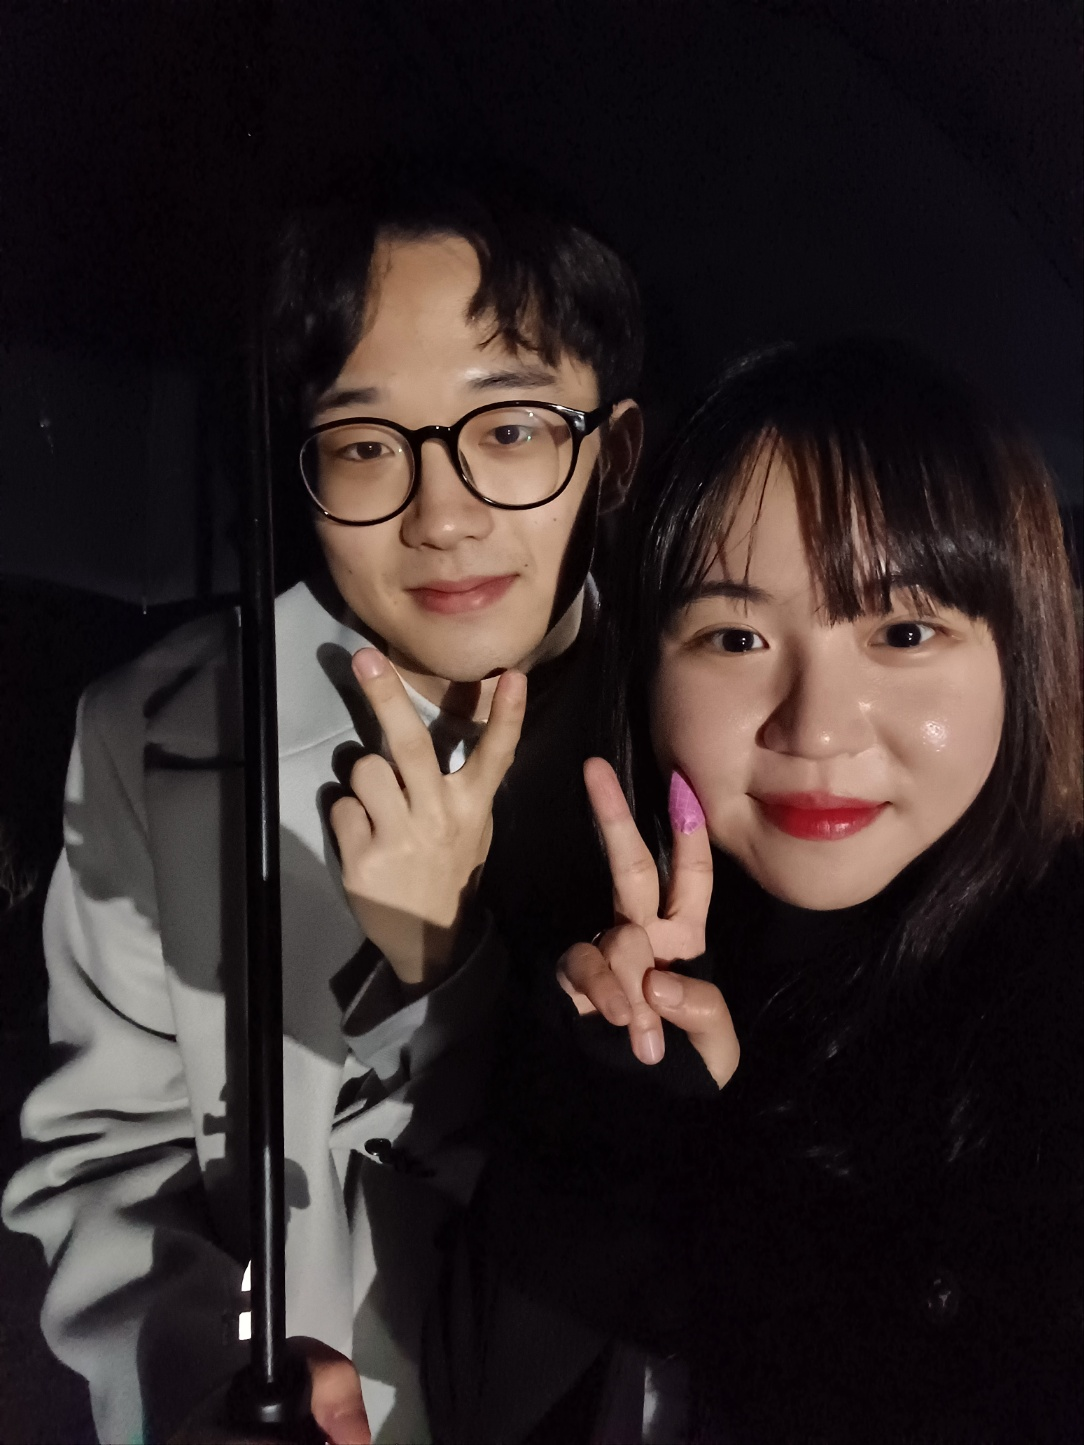
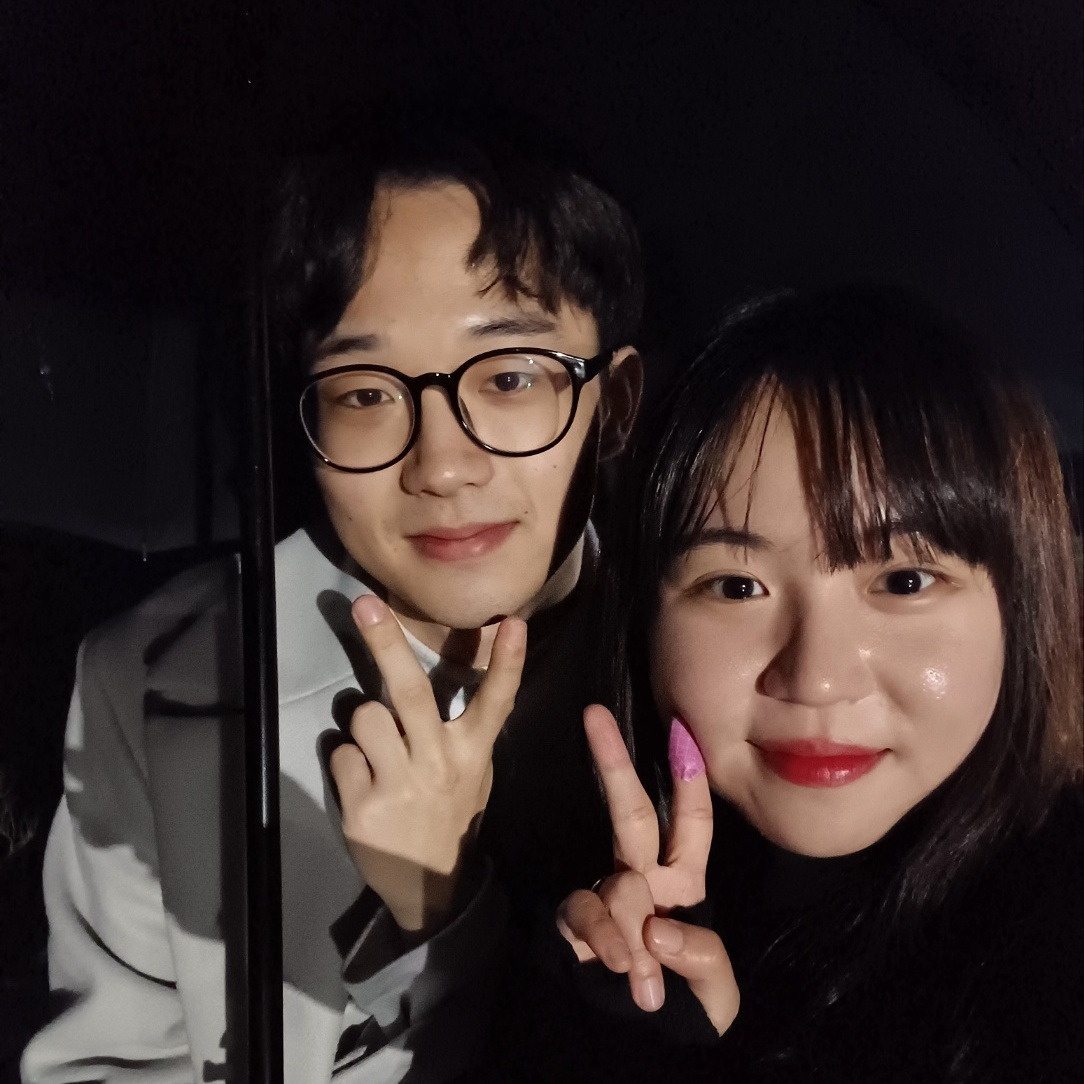
feat: profile 구현, About 페이지 구현

diff --git a/src/app/about/page.tsx b/src/app/about/page.tsx
@@ -1,3 +1,25 @@
+import Profile from "@/components/Profile";
+
 export default function AboutPage() {
-  return <h1>About!</h1>;
+  return (
+    <div>
+      <Profile />
+      <div className=" bg-neutral-900 h-64 p-6 flex flex-col justify-between items-center mt-6">
+        <div className="flex flex-col items-center">
+          <h2 className="font-semibold text-md mb-1">Who are we?</h2>
+          <p className="text-sm">꿈을 향해 코딩하는 개발자</p>
+          <p className="text-sm">취미는 알고리즘 문제 풀기</p>
+        </div>
+        <div className="flex flex-col items-center">
+          <h2 className="font-semibold text-md mb-1">Career</h2>
+          <p className="text-sm">인천대학교 졸업</p>
+        </div>
+        <div className="flex flex-col items-center">
+          <h2 className="font-semibold text-md mb-1">Skills</h2>
+          <p className="text-sm">Jae Cheol - Java, Spring, JPA</p>
+          <p className="text-sm">Ji Won - React, Typescript, Next.js</p>
+        </div>
+      </div>
+    </div>
+  );
 }

diff --git a/src/components/Profile.tsx b/src/components/Profile.tsx
@@ -1,0 +1,22 @@
+import Image from "next/image";
+import React from "react";
+import profile from "../../public/images/profile.jpg";
+import ContactButton from "./ContactButton";
+
+export default function Profile() {
+  return (
+    <div className="w-80 h-80 flex flex-col justify-between items-center mx-auto">
+      <Image
+        src={profile}
+        alt="profile"
+        width={170}
+        height={170}
+        className="rounded-full"
+      />
+      <h2 className="text-lg">Hello, We&apos;re JJ</h2>
+      <p className="text-sm">Back-end & Front-end engineer</p>
+      <p className="text-sm">꾸준히 성장하는 개발자</p>
+      <ContactButton />
+    </div>
+  );
+}

diff --git a/src/components/ContactButton.tsx b/src/components/ContactButton.tsx
@@ -1,0 +1,15 @@
+"use client";
+
+import { useRouter } from "next/navigation";
+
+export default function ContactButton() {
+  const router = useRouter();
+  return (
+    <button
+      className="bg-orange-400 p-1 rounded-xl text-black font-semibold text-sm"
+      onClick={() => router.push("/contact")}
+    >
+      Contact me
+    </button>
+  );
+}

diff --git a/src/app/page.tsx b/src/app/page.tsx
@@ -1,3 +1,9 @@
+import Profile from "@/components/Profile";
+
 export default function Home() {
-  return <h1>Hello World</h1>;
+  return (
+    <div>
+      <Profile />
+    </div>
+  );
 }
